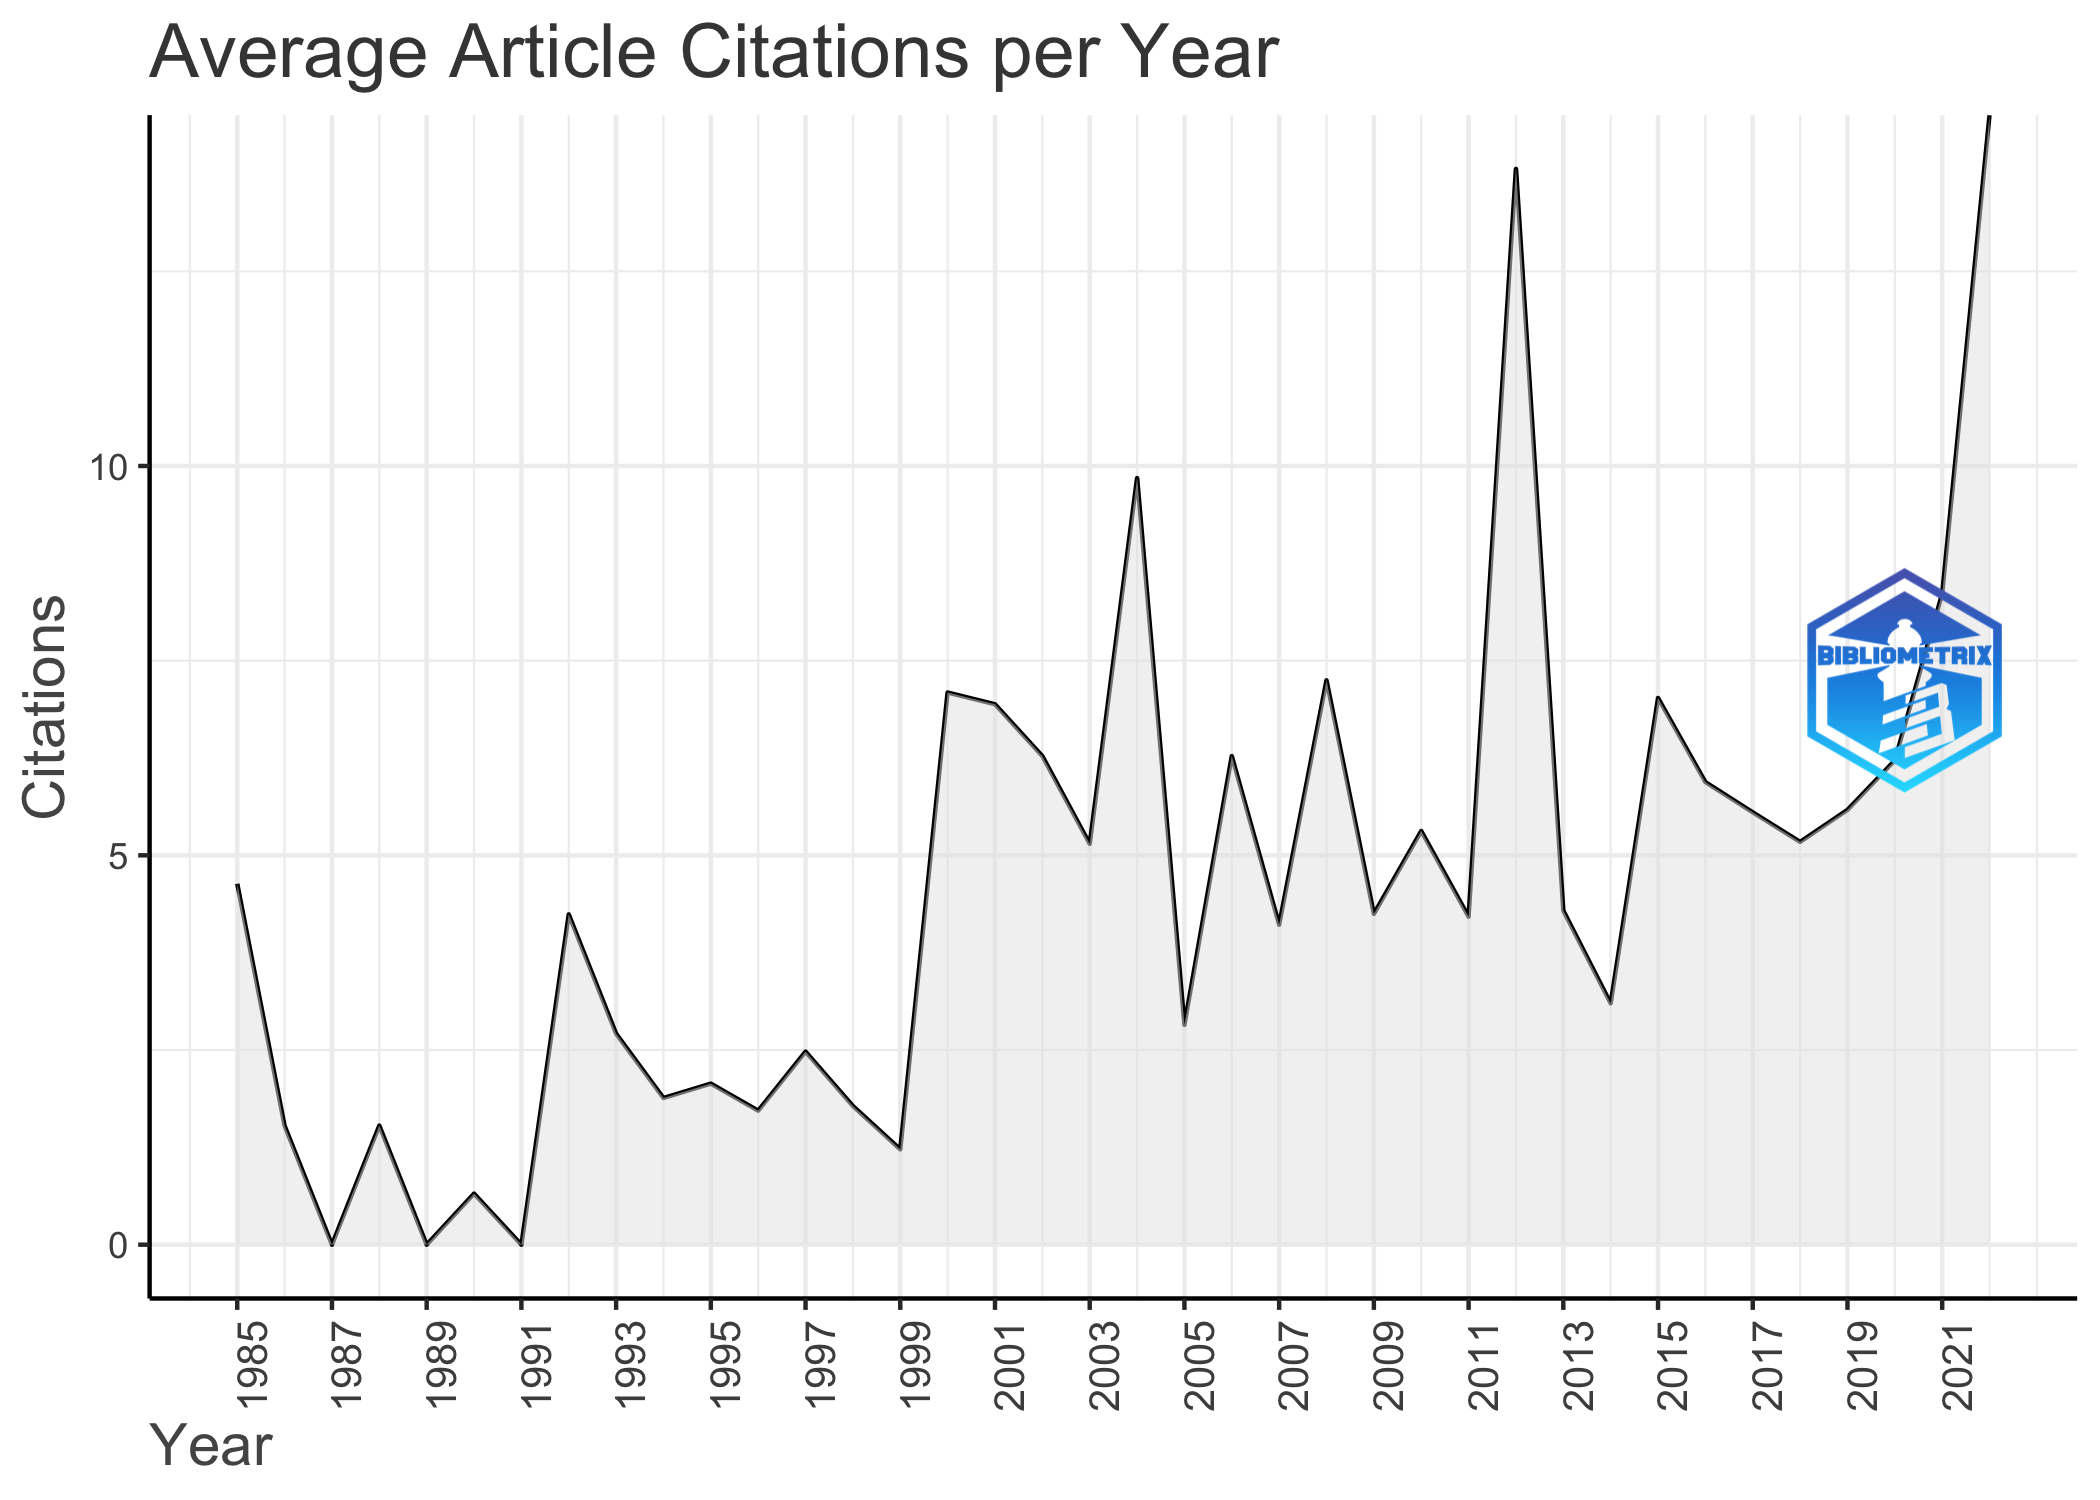
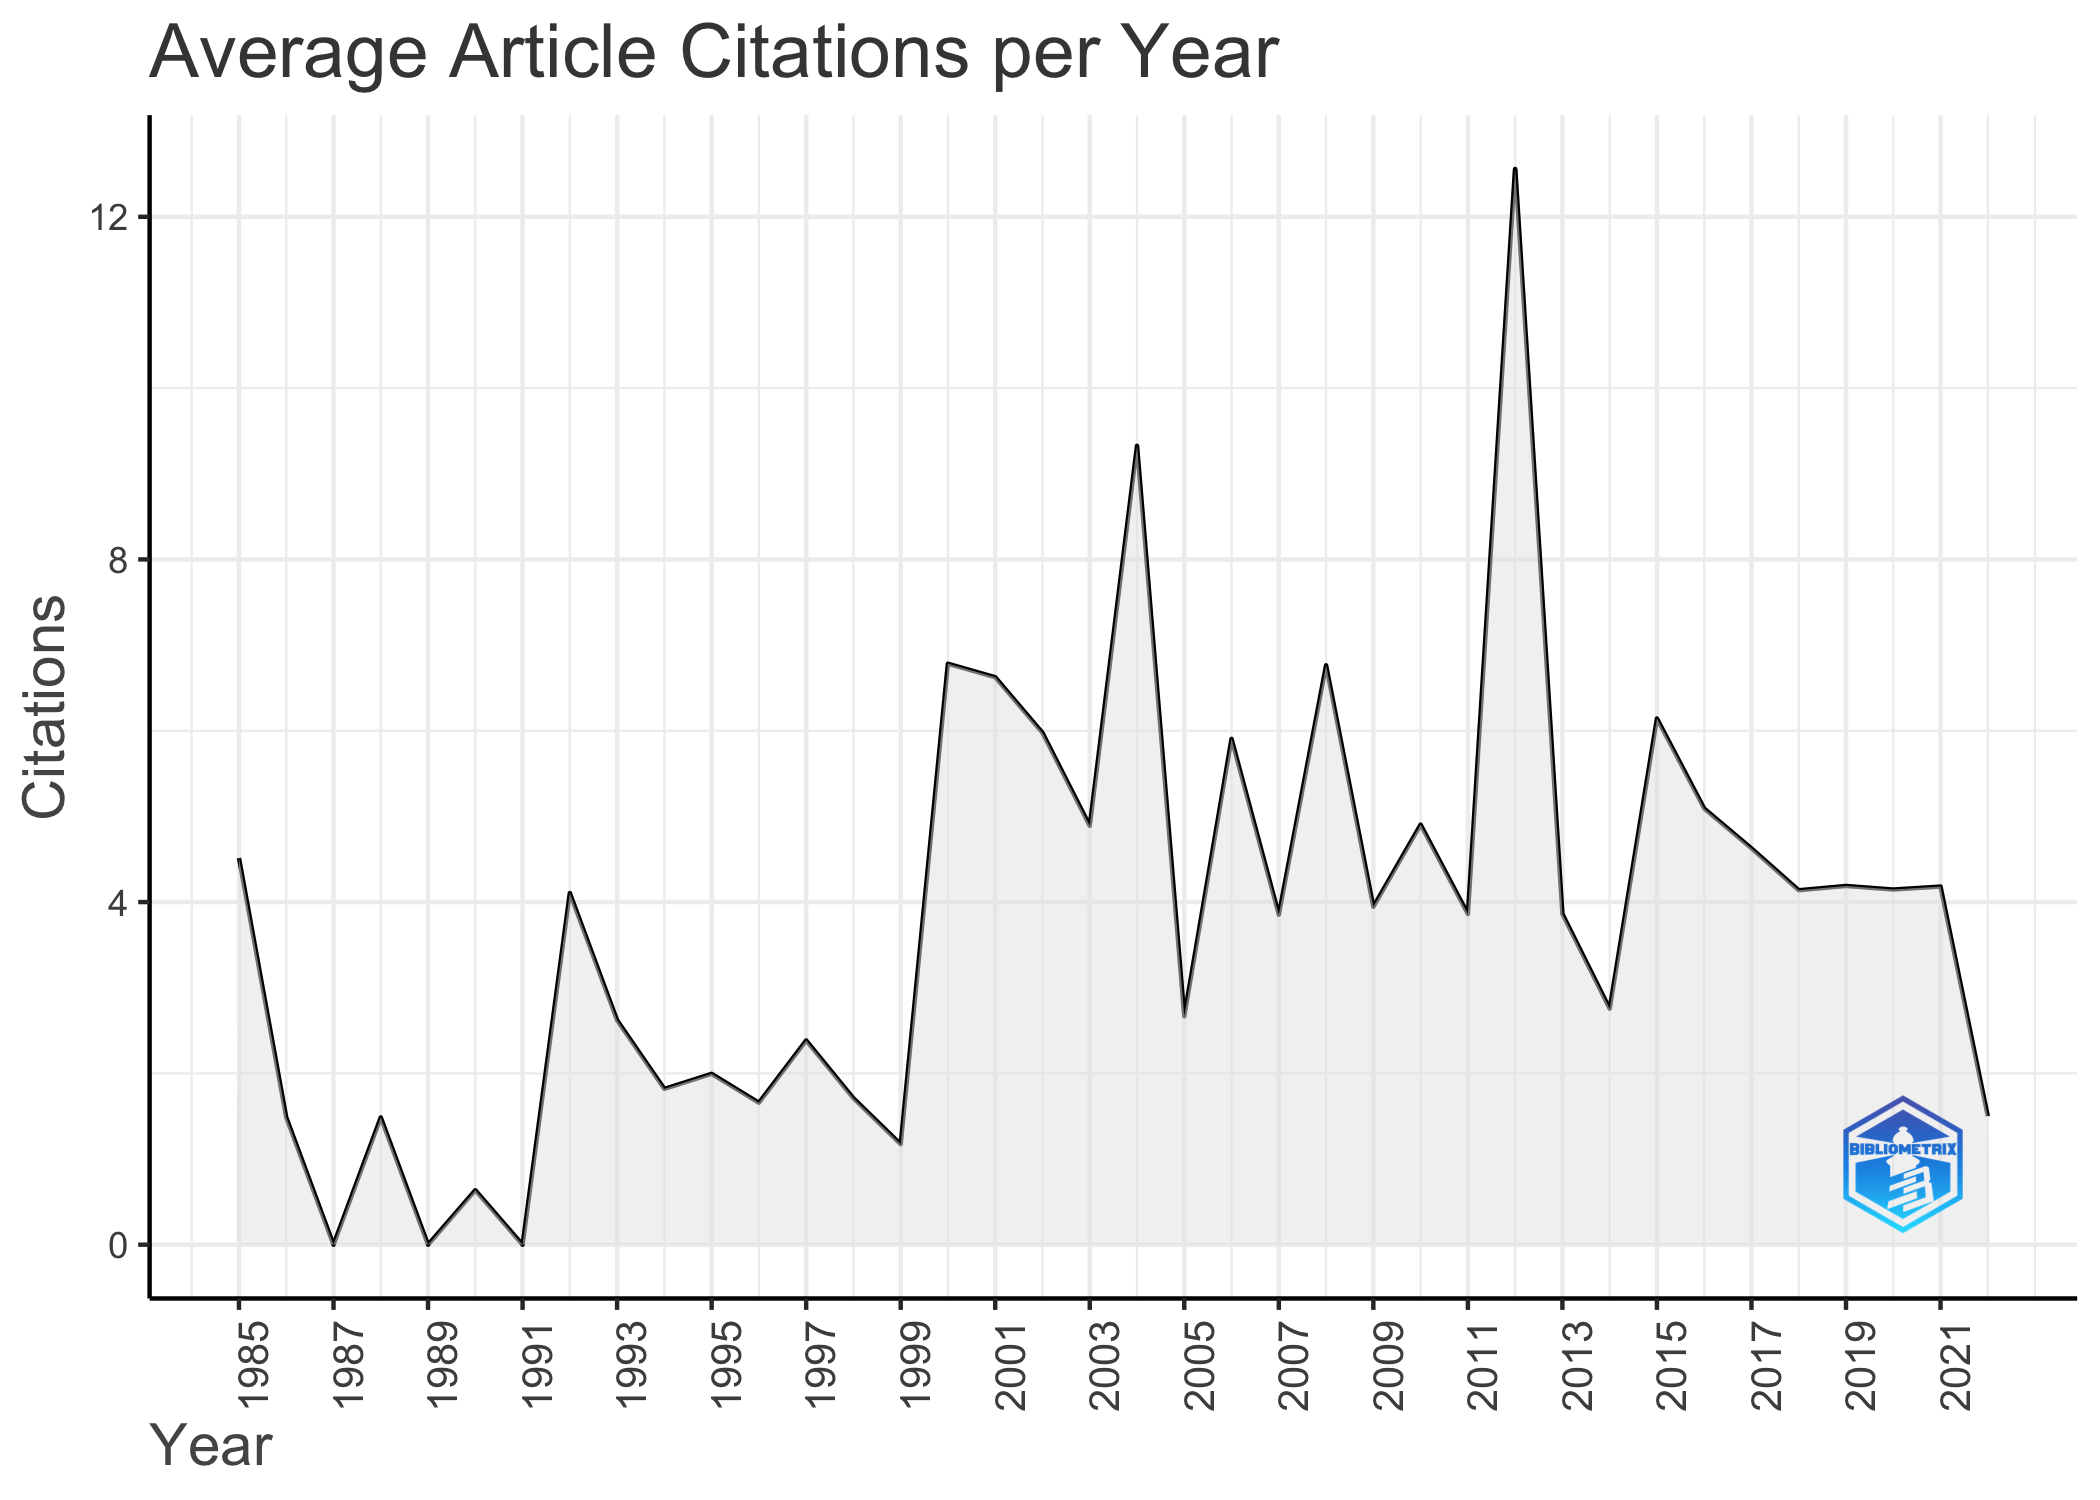
Updated README bibliometrix 4.1.0

diff --git a/README.md b/README.md
@@ -81,8 +81,8 @@ It supports scholars in easy use of the main features of bibliometrix:
 
 ### How to use biblioshiny
 
-Please follow the biblioshiny tutorial at
-www.bibliometrix.org/biblioshiny
+Please follow the biblioshiny tutorial at the section tutorial of
+bibliometrix website <https://www.bibliometrix.org/>
 
 ## How to cite bibliometrix
 
@@ -102,11 +102,13 @@ CRAN page: <https://cran.r-project.org/package=bibliometrix>
 
 GitHub repository: <https://github.com/massimoaria/bibliometrix>
 
-Tutorial:
+Tutorials
+
+How to use:
 <https://www.bibliometrix.org/vignettes/Introduction_to_bibliometrix.html>
 
-Slides:
-<https://www.slideshare.net/MassimoAria/bibliometrix-phd-seminar>
+Data importing and converting:
+<https://www.bibliometrix.org/vignettes/Data-Importing-and-Converting.html>
 
 ## Installation
 
@@ -179,6 +181,51 @@ Data frame columns are named using the standard Clarivate Analytics WoS
 Field Tag codify
 [(https://www.bibliometrix.org/documents/Field_Tags_bibliometrix.pdf)](https://www.bibliometrix.org/documents/Field_Tags_bibliometrix.pdf).
 
+## Check completeness of metadata included in the bibliographic data frame
+
+After importing a bibliographic data frame, we can check the
+completeness of the metadata included in it through **missingData()**.
+
+**missingData**(*M*)
+
+The argument *M* is a bibliographic data frame obtained by
+**convert2df** function.
+
+``` r
+## An example from bibliometrix vignettes
+
+com <- missingData(M)
+
+com$mandatoryTags
+#>    tag                description missing_counts missing_pct     status
+#> 1   AU                     Author              0        0.00  Excellent
+#> 2   DT              Document Type              0        0.00  Excellent
+#> 3   SO                    Journal              0        0.00  Excellent
+#> 4   LA                   Language              0        0.00  Excellent
+#> 5   NR Number of Cited References              0        0.00  Excellent
+#> 6   WC         Science Categories              0        0.00  Excellent
+#> 7   TI                      Title              0        0.00  Excellent
+#> 8   TC             Total Citation              0        0.00  Excellent
+#> 9   CR           Cited References              2        0.22       Good
+#> 10  AB                   Abstract              7        0.78       Good
+#> 11  PY           Publication Year              9        1.00       Good
+#> 12  RP       Corresponding Author             10        1.11       Good
+#> 13  C1                Affiliation             21        2.34       Good
+#> 14  DI                        DOI             36        4.01       Good
+#> 15  DE                   Keywords             79        8.80       Good
+#> 16  ID              Keywords Plus             97       10.80 Acceptable
+```
+
+**missingData** returns a list containing two data frame. The first one,
+*allTags* includes the results for all metadata in M. The latter,
+*mandatoryTags*, reports the results only for the metadata needed to
+perform analyses with bibliometrix or biblioshiny.
+
+The column *status* classifies the percentage of missing value in 5
+categories: “Excellent” (0%), “Good” (0.01% to 10.00%), “Acceptable”
+(from 10.01% to 20.00%), “Poor” (from 20.01% to 50.00%), “Critical”
+(from 50.01% to 99.99%), “Completely missing” (100%).
+
 ## Bibliometric Analysis
 
 The first step is to perform a descriptive analysis of the bibliographic
@@ -216,9 +263,9 @@ S <- summary(object = results, k = 10, pause = FALSE)
 #>  Sources (Journals, Books, etc)        281 
 #>  Documents                             898 
 #>  Annual Growth Rate %                  0 
-#>  Document Average Age                  7.19 
+#>  Document Average Age                  8.19 
 #>  Average citations per doc             37.12 
-#>  Average citations per year per doc    4.609 
+#>  Average citations per year per doc    3.926 
 #>  References                            43935 
 #>  
 #> DOCUMENT TYPES                     
@@ -303,16 +350,16 @@ S <- summary(object = results, k = 10, pause = FALSE)
 #> Top manuscripts per citations
 #> 
 #>                                  Paper                                     DOI   TC TCperYear   NTC
-#> 1  CHEN HC, 2012, MIS QUART                     NA                             2161    196.45 15.64
-#> 2  ZUPIC I, 2015, ORGAN RES METHODS             10.1177/1094428114562629        844    105.50 17.17
-#> 3  RAMOS-RODRIGUEZ AR, 2004, STRATEGIC MANAGE J 10.1002/smj.397                 667     35.11  3.76
-#> 4  VOLBERDA HW, 2010, ORGAN SCI                 10.1287/orsc.1090.0503          626     48.15  9.82
-#> 5  DAIM TU, 2006, TECHNOL FORECAST SOC          10.1016/j.techfore.2006.04.004  569     33.47  5.67
-#> 6  KOSTOFF RN, 2001, IEEE T ENG MANAGE          10.1109/17.922473               387     17.59  2.66
-#> 7  NERUR SP, 2008, STRATEG MANAGE J             10.1002/smj.659                 353     23.53  3.48
-#> 8  MELIN G, 2000, RES POLICY                    10.1016/S0048-7333(99)00031-1   336     14.61  2.15
-#> 9  MOED HF, 1985, RES POLICY                    10.1016/0048-7333(85)90012-5    310      8.16  1.81
-#> 10 MURRAY F, 2002, RES POLICY                   10.1016/S0048-7333(02)00070-7   301     14.33  2.40
+#> 1  CHEN HC, 2012, MIS QUART                     NA                             2161    180.08 15.64
+#> 2  ZUPIC I, 2015, ORGAN RES METHODS             10.1177/1094428114562629        844     93.78 17.17
+#> 3  RAMOS-RODRIGUEZ AR, 2004, STRATEGIC MANAGE J 10.1002/smj.397                 667     33.35  3.76
+#> 4  VOLBERDA HW, 2010, ORGAN SCI                 10.1287/orsc.1090.0503          626     44.71  9.82
+#> 5  DAIM TU, 2006, TECHNOL FORECAST SOC          10.1016/j.techfore.2006.04.004  569     31.61  5.67
+#> 6  KOSTOFF RN, 2001, IEEE T ENG MANAGE          10.1109/17.922473               387     16.83  2.66
+#> 7  NERUR SP, 2008, STRATEG MANAGE J             10.1002/smj.659                 353     22.06  3.48
+#> 8  MELIN G, 2000, RES POLICY                    10.1016/S0048-7333(99)00031-1   336     14.00  2.15
+#> 9  MOED HF, 1985, RES POLICY                    10.1016/0048-7333(85)90012-5    310      7.95  1.81
+#> 10 MURRAY F, 2002, RES POLICY                   10.1016/S0048-7333(02)00070-7   301     13.68  2.40
 #> 
 #> 
 #> Corresponding Author's Countries
@@ -630,29 +677,57 @@ net <- histPlot(histResults, n=20, size = FALSE,label="short")
 
 ## Main Authors’ references (about bibliometrics)
 
-Aria, M. & Cuccurullo, C. (2017). *bibliometrix*: An R-tool for
+Aria, M. & Cuccurullo, C. (2017). bibliometrix: An R-tool for
 comprehensive science mapping analysis, *Journal of Informetrics*,
 11(4), pp 959-975, Elsevier, DOI: 10.1016/j.joi.2017.08.007
-(<https://doi.org/10.1016/j.joi.2017.08.007>).
+(<https://doi.org/10.1016/j.joi.2017.08.007>)
+
+Aria, M., Cuccurullo, C., D’Aniello, L., Misuraca, M., & Spano, M.
+(2022). Thematic Analysis as a New Culturomic Tool: The Social Media
+Coverage on COVID-19 Pandemic in Italy. *Sustainability*, 14(6), 3643,
+(<https://doi.org/10.3390/su14063643>)
+
+Belfiore, A., Salatino, A., & Osborne, F. (2022). Characterising
+Research Areas in the field of AI. *arXiv preprint
+arXiv:2205.13471*.(<https://doi.org/10.48550/arXiv.2205.13471>)
+
+Belfiore, A., Cuccurullo, C., & Aria, M. (2022). IoT in healthcare: A
+scientometric analysis. *Technological Forecasting and Social Change*,
+184, 122001. (<https://doi.org/10.1016/j.techfore.2022.122001>)
+
+D’Aniello, L., Spano, M., Cuccurullo, C., & Aria, M. (2022). Academic
+Health Centers’ configurations, scientific productivity, and impact:
+insights from the Italian setting. *Health Policy*.
+(<https://doi.org/10.1016/j.healthpol.2022.09.007>)
+
+Aria M., Misuraca M., Spano M. (2020) Mapping the evolution of social
+research and data science on 30 years of Social Indicators Research,
+*Social Indicators Research*. (DOI:
+<https://doi.org/10.1007/s11205-020-02281-3>)
+
+Aria M., Alterisio A., Scandurra A, Pinelli C., D’Aniello B, (2021) The
+scholar’s best friend: research trends in dog cognitive and behavioural
+studies, A*nimal Cognition*.
+(<https://doi.org/10.1007/s10071-020-01448-2>)
 
 Cuccurullo, C., Aria, M., & Sarto, F. (2016). Foundations and trends in
 performance management. A twenty-five years bibliometric analysis in
 business and public administration domains, *Scientometrics*, DOI:
-10.1007/s11192-016-1948-8 (<https://doi.org/10.1007/s11192-016-1948-8>).
+10.1007/s11192-016-1948-8 (<https://doi.org/10.1007/s11192-016-1948-8>)
 
 Cuccurullo, C., Aria, M., & Sarto, F. (2015). Twenty years of research
 on performance management in business and public administration domains.
 Presentation at the *Correspondence Analysis and Related Methods
 conference (CARME 2015)* in September 2015
-(<https://www.bibliometrix.org/documents/2015Carme_cuccurulloetal.pdf>).
+(<https://www.bibliometrix.org/documents/2015Carme_cuccurulloetal.pdf>)
 
 Sarto, F., Cuccurullo, C., & Aria, M. (2014). Exploring healthcare
 governance literature: systematic review and paths for future research.
 *Mecosan*
-(<https://www.francoangeli.it/Riviste/Scheda_Rivista.aspx?IDarticolo=52780&lingua=en>).
+(<https://www.francoangeli.it/Riviste/Scheda_Rivista.aspx?IDarticolo=52780&lingua=en>)
 
 Cuccurullo, C., Aria, M., & Sarto, F. (2013). Twenty years of research
 on performance management in business and public administration domains.
 In *Academy of Management Proceedings* (Vol. 2013, No. 1, p. 14270).
 Academy of Management
-(<https://doi.org/10.5465/AMBPP.2013.14270abstract>).
+(<https://doi.org/10.5465/AMBPP.2013.14270abstract>)
